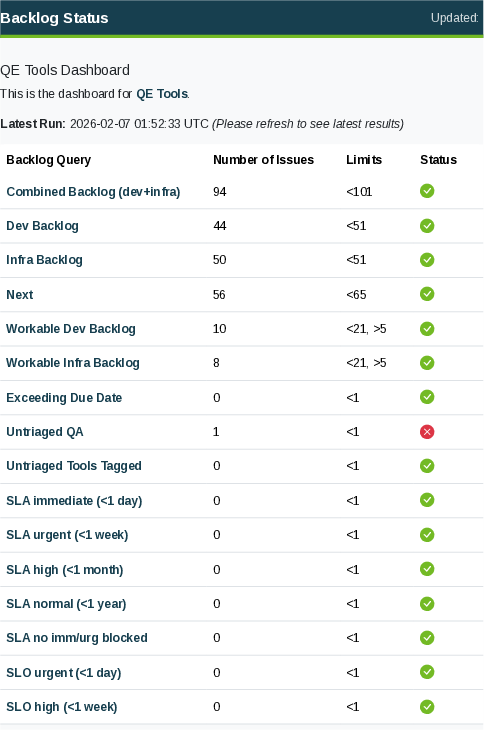
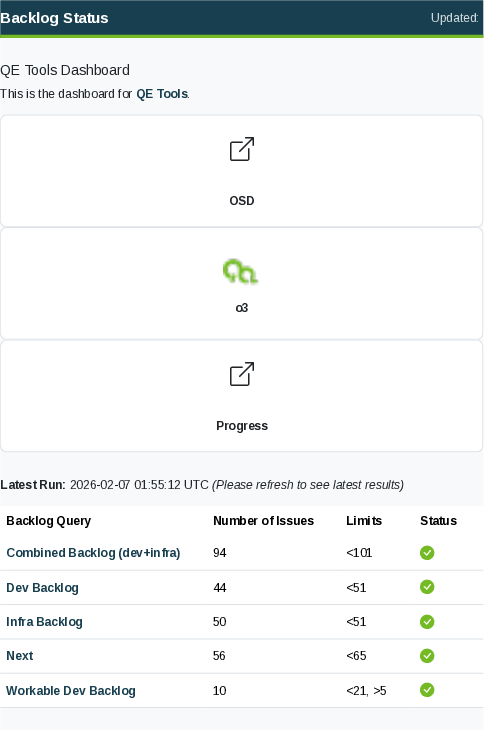
Deploying to gh-pages from @ r-richardson/qa-tools-backlog-assistant@c8f86a858103161840cc9e413e0d427ed77205fe 🚀

diff --git a/index.html b/index.html
@@ -153,7 +153,28 @@
 <main><h3 id="qe-tools-dashboard">QE Tools Dashboard</h3>
 <p>This is the dashboard for <a href="https://progress.opensuse.org/projects/qa/wiki/Tools">QE Tools</a>.</p>
 
-<p><strong>Latest Run:</strong> 2026-02-07 01:52:33 UTC
+<div class="app-grid">
+
+        <a href="https://openqa.suse.de" class="app-card" target="_blank">
+            <i class="bi bi-box-arrow-up-right app-icon" style="font-size: 2rem; display: flex; align-items: center; justify-content: center;"></i>
+            <span>OSD</span>
+        </a>
+        
+
+        <a href="https://openqa.opensuse.org" class="app-card" target="_blank">
+            <img src="icons/o3_logo-16.png" alt="o3" class="app-icon" />
+            <span>o3</span>
+        </a>
+        
+
+        <a href="https://progress.opensuse.org" class="app-card" target="_blank">
+            <i class="bi bi-box-arrow-up-right app-icon" style="font-size: 2rem; display: flex; align-items: center; justify-content: center;"></i>
+            <span>Progress</span>
+        </a>
+        
+</div>
+
+<p><strong>Latest Run:</strong> 2026-02-07 01:55:12 UTC
 <em>(Please refresh to see latest results)</em></p>
 
 <div class="table-responsive">
